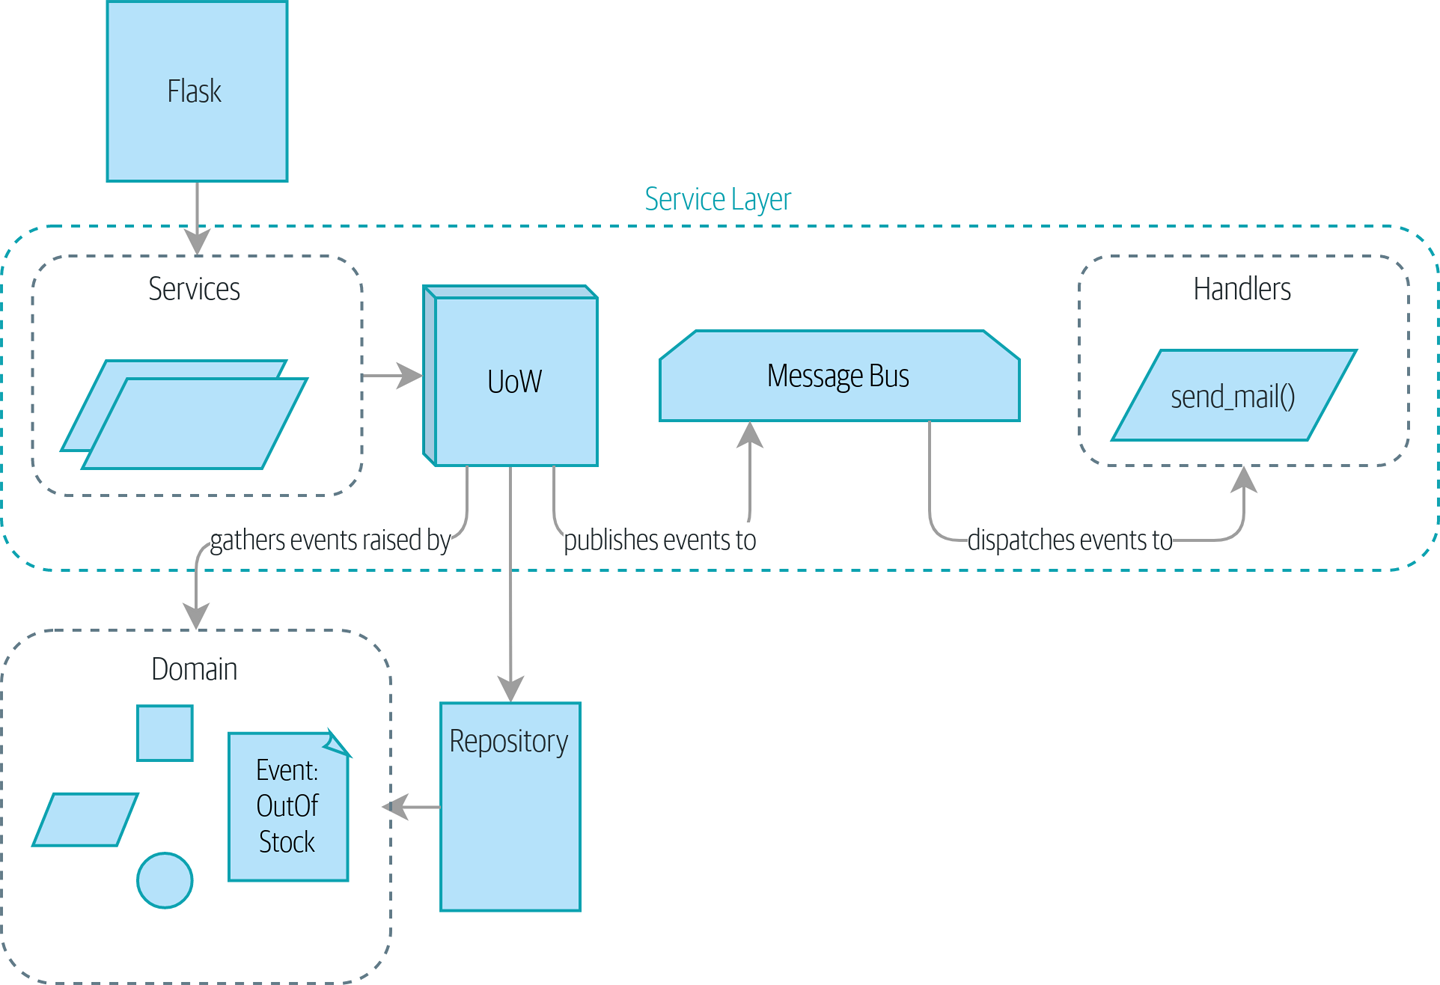
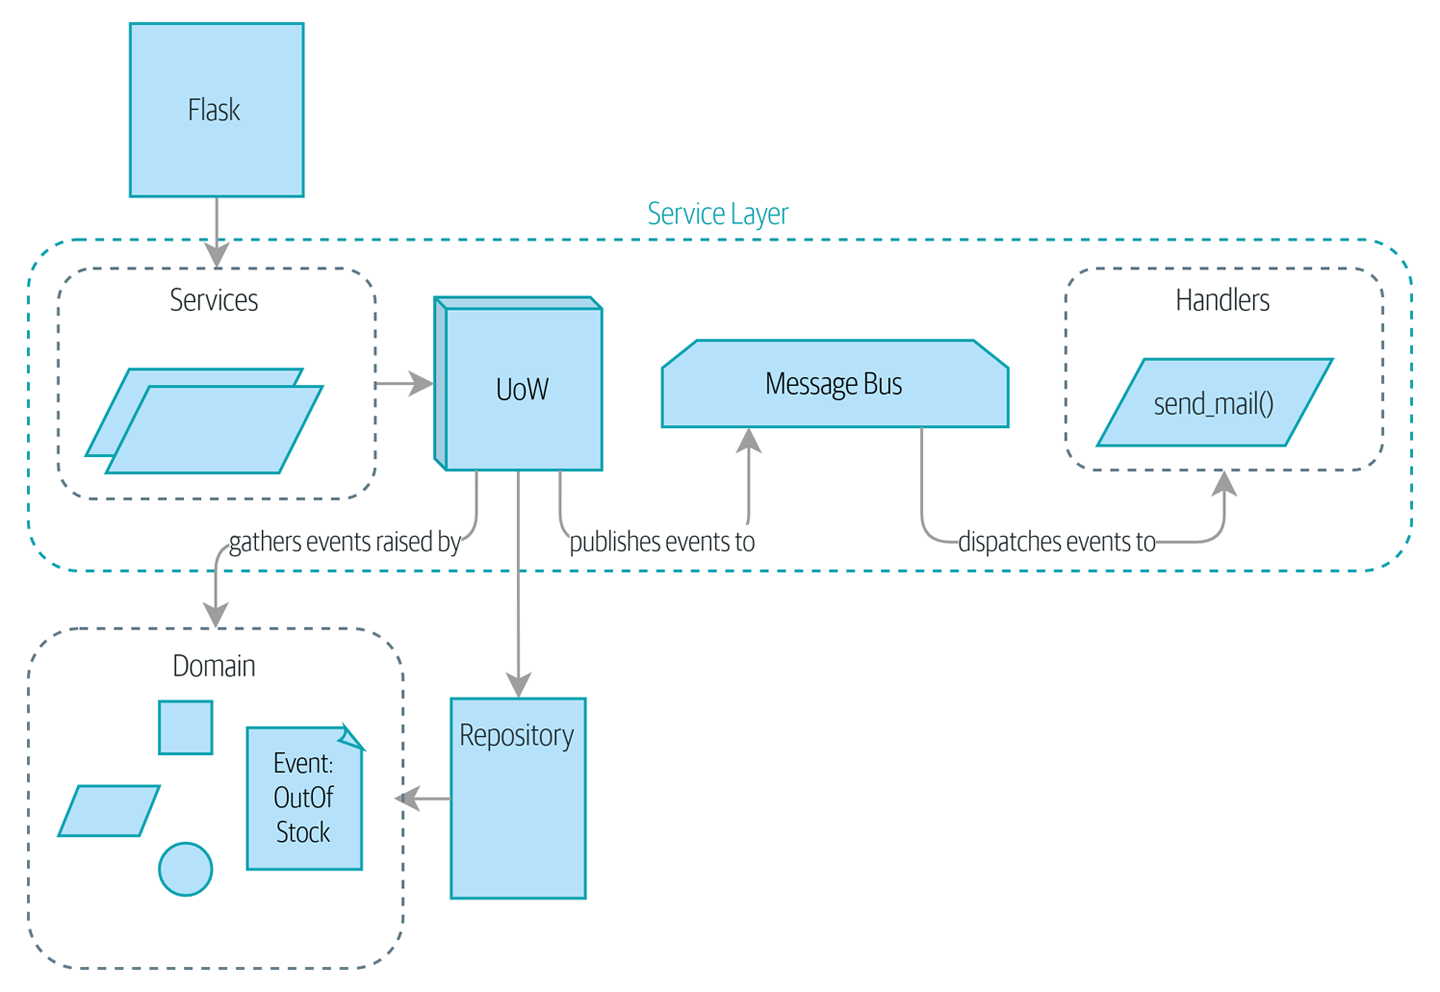
copies reprocessed figs, cleans up edits

diff --git a/colo.html b/colo.html
@@ -3,7 +3,7 @@
 
 <p>The animal on the cover of <em>Architecture Patterns with Python</em> is a Burmese python (<em>Python bivitattus</em>). As you might expect, the Burmese python is native to Southeast Asia. Today it lives in jungles and marshes in South Asia, Myanmar, China, and Indonesia; it’s also invasive in Florida’s Everglades.</p>
 
-<p>Burmese pythons are one of the world’s largest species of snakes. These nocturnal, carnivorous constrictors can grow to 23 feet and 200 pounds. Females are larger than males. They can lay up to 100 eggs in one clutch. In the wild, Burmese pythons live an average of 20 to 25 years.</p>
+<p>Burmese pythons are one of the world’s largest species of snakes. These nocturnal, carnivorous constrictors can grow to 23 feet and 200 pounds. Females are larger than males. They can lay up to a hundred eggs in one clutch. In the wild, Burmese pythons live an average of 20 to 25 years.</p>
 
 <p>The markings on a Burmese python begin with an arrow-shaped spot of light brown on top of the head and continue along the body in rectangles that stand out against its otherwise tan scales. Before they reach their full size, which takes two to three years, Burmese pythons live in trees hunting small mammals and birds. They also swim for long stretches of time—going up to 30 minutes without air.</p>
 
